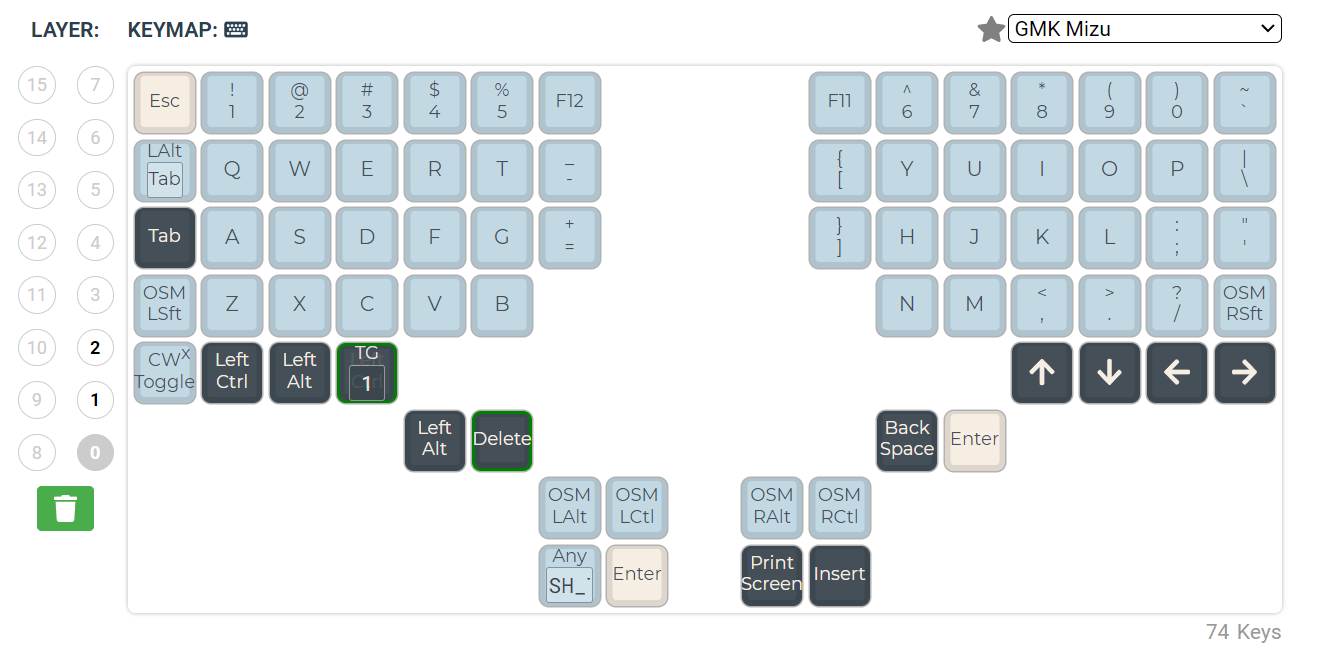
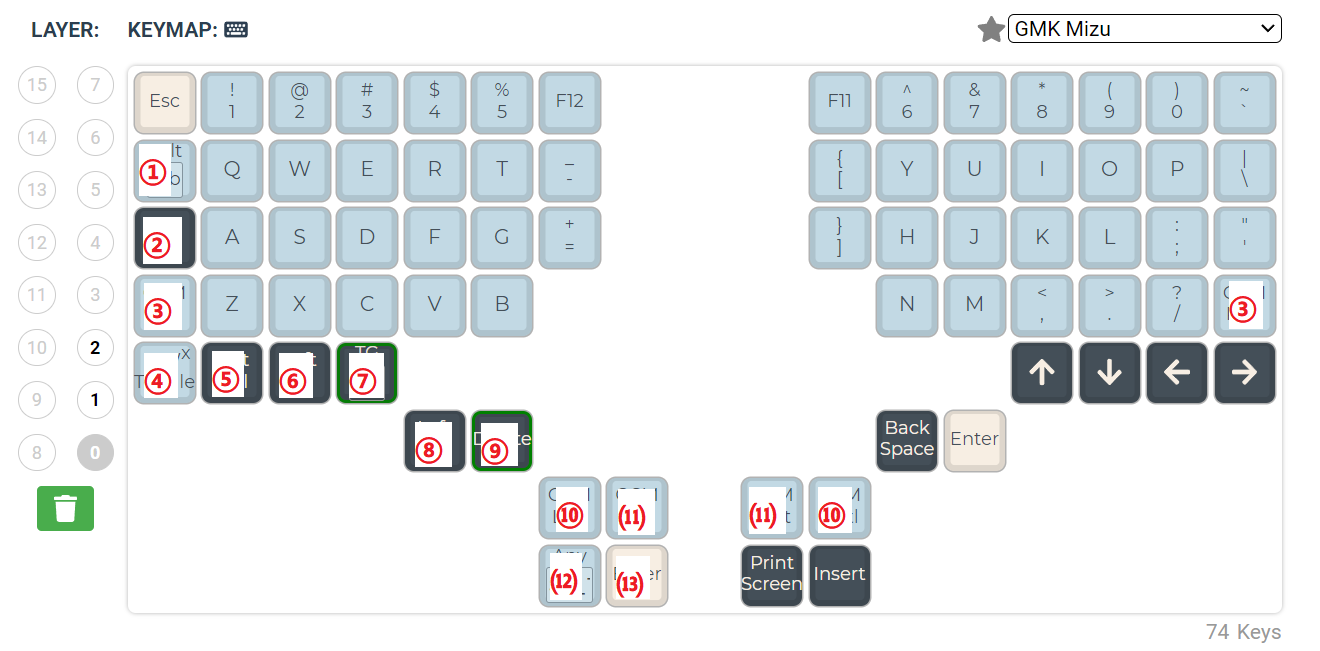
Update

diff --git a/文件夹/分体键盘/键盘布局.md b/文件夹/分体键盘/键盘布局.md
@@ -1,7 +1,7 @@
 ---
 tags: []
 date created: 2023-03-04T11:43:21+08:00
-date modified: 2023-03-04T12:16:56+08:00
+date modified: 2023-03-19T03:33:16+08:00
 ---
 
 # 键盘布局
@@ -9,6 +9,62 @@ date modified: 2023-03-04T12:16:56+08:00
 按键布局同<https://config.qmk.fm/#/handwired/dactyl_manuform/5x7/LAYOUT_5x7>。
 
 默认键位配置情况如下：
+
+## Layer 0（默认层）
+
 ![](../_assets/Pasted%20image%2020230304120211.png)
+
+按键说明：
+
+1. `Alt + Tab` - Windows 窗口切换，
+2. `Tab` - 调整 tab 位置方便小拇指操作，
+3. OSM `Shift` - 左手是 left Shift，右手是 right Shift，
+4. `Caps Word` - 代替 Caps Lock，
+5. 切换 Layer 2
+6. OSM win
+7. 切换 Layer 1
+8. `Space` 空格
+9. Del
+10. OSM `Alt` - 左手是 left Alt，右手是 right Alt，
+11. OSM `Ctrl` - 左手是 left Ctrl，右手是 right Ctrl，
+12. 左手模式 - 将右手字母区域、数字区映射到左手，实现单手输入，
+13. `Enter` 回车
+
+其他各键与图片标注一致。
+
+### OSM
+
+图中 3、6、10、11 键为 OSM 按键。
+
+1. 短按一下然后松开，锁定按下的键，并在下一个键输入时候构成组合键，
+2. 长按（超过 0.5 秒) 则为原按键效果，比如长按 3 然后释放会输出 shift，
+3. 快速按两次，实现永久锁定效果；再次按一次该键接触锁定。
+
+### Caps Word
+
+现代的 Caps Lock 替代方案，方便连续输入 yaml 等语法格式，
+
+1. 激活时，字母大写并 `-` 变为 `_`，
+2. 自动终止，除 `KC_A–KC_Z`、`KC_0–KC_9`、`KC_MINS`（`-` 和 `_`）、`KC_UNDS`（`_`）、`KC_DELETE`、`KC_BACKSPACE` 之外的按键可以自动终止大写效果，比如空格、冒号。
+3. 如果键盘闲置 5 秒，Caps Word 也会自行禁用。
+
+## Layer 1
+
+Layer 1 与 Layer 0 相差不大，只是把数字键替换为 F 键。
 ![](../_assets/Pasted%20image%2020230304120551.png)
+
+## Layer 2
+
 ![](../_assets/Pasted%20image%2020230304121655.png)
+
+* 左手设置为数字小键盘，
+* 右手设置为光标移动和翻页，
+* 1、2 为宏 1 录制和播放，
+* 3、4 为宏 2 录制和播放，
+* 5 为固件烧录按键。
+
+## 常用快捷键
+
+* 长按 3 和 11，切换输入法。
+* 按一下 11，然后 1 此时弹出任务窗口，按 Tab 实现光标移动，按 Space 选中切换到任务窗口。
+* 左手按一下 11，左手再按一下 13，大部分软件的发送消息快捷键。

diff --git a/文件夹/分体键盘/QMK 烧录.md b/文件夹/分体键盘/QMK 烧录.md
@@ -1,10 +1,15 @@
 ---
 tags: []
 date created: 2023-03-04T11:19:47+08:00
-date modified: 2023-03-04T11:20:39+08:00
+date modified: 2023-03-19T03:37:04+08:00
 ---
 
 # QMK 烧录
+
+**注意：**
+千万不要在 USB 带电的情况下插拔音频线！！！
+千万不要在 USB 带电的情况下插拔音频线！！！
+千万不要在 USB 带电的情况下插拔音频线！！！
 
 ## QMK Toolbox
 
